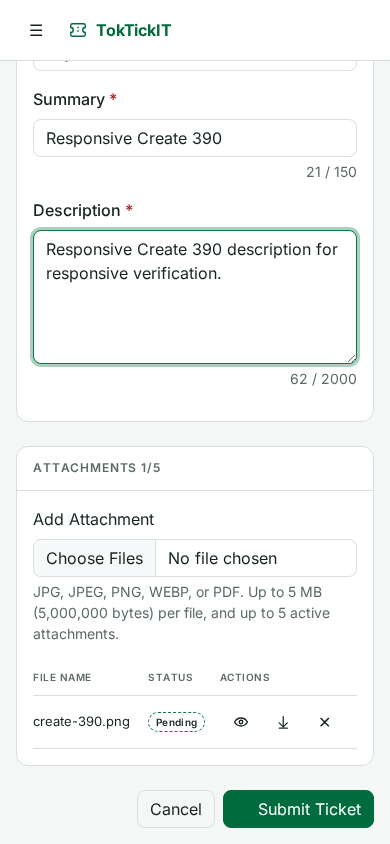
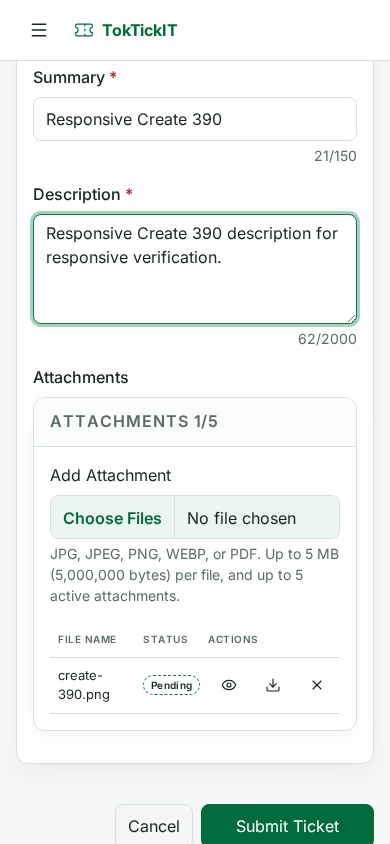
docs: record responsive CI verification

diff --git a/docs/lab-02/tests.md b/docs/lab-02/tests.md
@@ -2973,3 +2973,29 @@ The Attachment staff-binary lookup and Ticket representation moved within `serve
 - `npm run build` in `server/` and `client/`: passed.
 
 An earlier full-server test attempt without explicit test overrides entered PostgreSQL suites while the local test target was unavailable and Lab 3 explicit overrides were absent; 23 suite hooks failed. It is not evidence of a full database-backed pass. The focused guarded PostgreSQL run above used only the disposable target, and its container was removed after the run.
+
+## Lab 4 inherited Lab 2 responsive CI follow-up (2026-10-03)
+
+CI reported that the mobile Create Ticket layout assertion failed at 390x844.
+The failure could not be reproduced locally: the exact case passed, passed ten
+repeats, and passed in its normal viewport order within the full responsive
+spec. The referenced CI screenshot/error-context/trace artifacts were not
+present in the workspace, so the CI-only condition remains unexplained. No
+application or test source changed.
+
+The authorized disposable Lab 3 tmpfs Docker target was `toktickit_lab3_test`
+at `127.0.0.1:55433`. Read-only Prisma status named that target and reported
+seven unapplied migrations before Playwright global setup applied migrations
+and seeded it. Docker Compose recreated its existing Lab 3 test container; the
+separate Lab 2 orphan container was left untouched.
+
+| Check | Command | Result |
+| --- | --- | --- |
+| Focused mobile Create Ticket | `npm run test:e2e -- e2e/lab-02/responsive-visual.spec.ts -g 'Create Ticket at 390x844'` | **Pass** — 1/1. |
+| Repeated mobile Create Ticket | `npm run test:e2e -- e2e/lab-02/responsive-visual.spec.ts -g 'Create Ticket at 390x844' --repeat-each=10` | **Pass** — 10/10. |
+| Full responsive visual spec | `npm run test:e2e -- e2e/lab-02/responsive-visual.spec.ts` | **Pass** — 9/9 across `1440x900`, `820x1180`, and `390x844`. |
+
+The passing responsive run refreshed only
+`create-ticket/390x844.png` and `create-ticket/390x844-attachments.png` as
+current mobile Create Ticket evidence. Playwright emitted the existing
+`NO_COLOR`/`FORCE_COLOR` warning; no test failed.

diff --git a/docs/lab-02/ai-use.md b/docs/lab-02/ai-use.md
@@ -6,6 +6,12 @@ This is the canonical Lab 2 AI-use record. It curates ten important prompts
 from the prompt history available in the repository and current session; it is
 not a transcript.
 
+## Lab 4 inherited Lab 2 responsive CI follow-up (2026-10-03)
+
+| Prompt | What I did with the result |
+|---|---|
+| Investigate CI failure in `RESP-01/VIS-01 Create Ticket at 390x844`; user authorized a Docker test database. | Used the disposable Lab 3 tmpfs PostgreSQL target at `127.0.0.1:55433`. Prisma read-only status showed seven unapplied migrations before Playwright setup. The exact case passed 1/1, then 10/10 repeats; the full responsive spec passed 9/9, including the mobile case after desktop/tablet cases. Refreshed the two 390x844 Create Ticket screenshots. No application or test source changed; CI failure remains unexplained because its screenshot/trace artifacts were unavailable in the workspace. Compose recreated the existing Lab 3 tmpfs container; the Lab 2 orphan container was left untouched. |
+
 ## Lab 3 CI regression follow-up (2026-09-25)
 
 | Prompt | What I did with the result |
